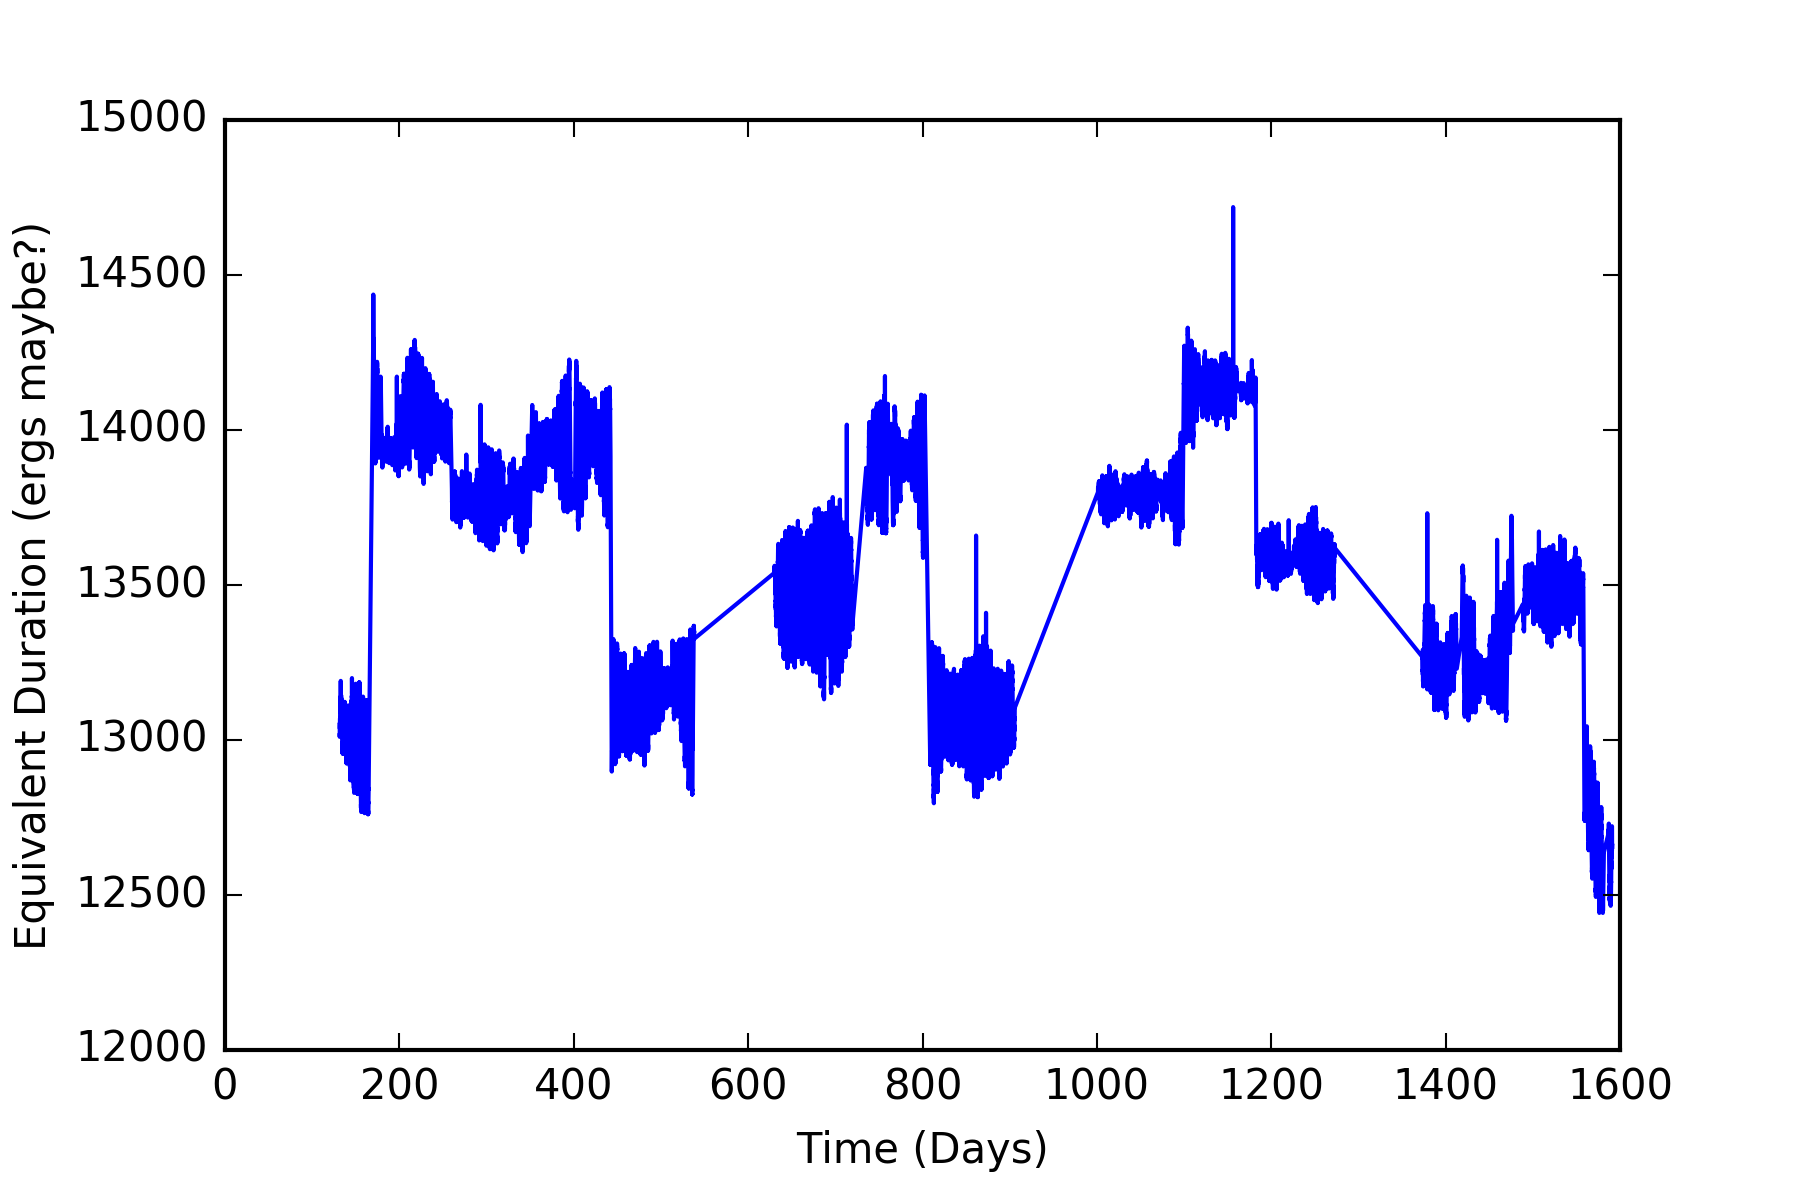
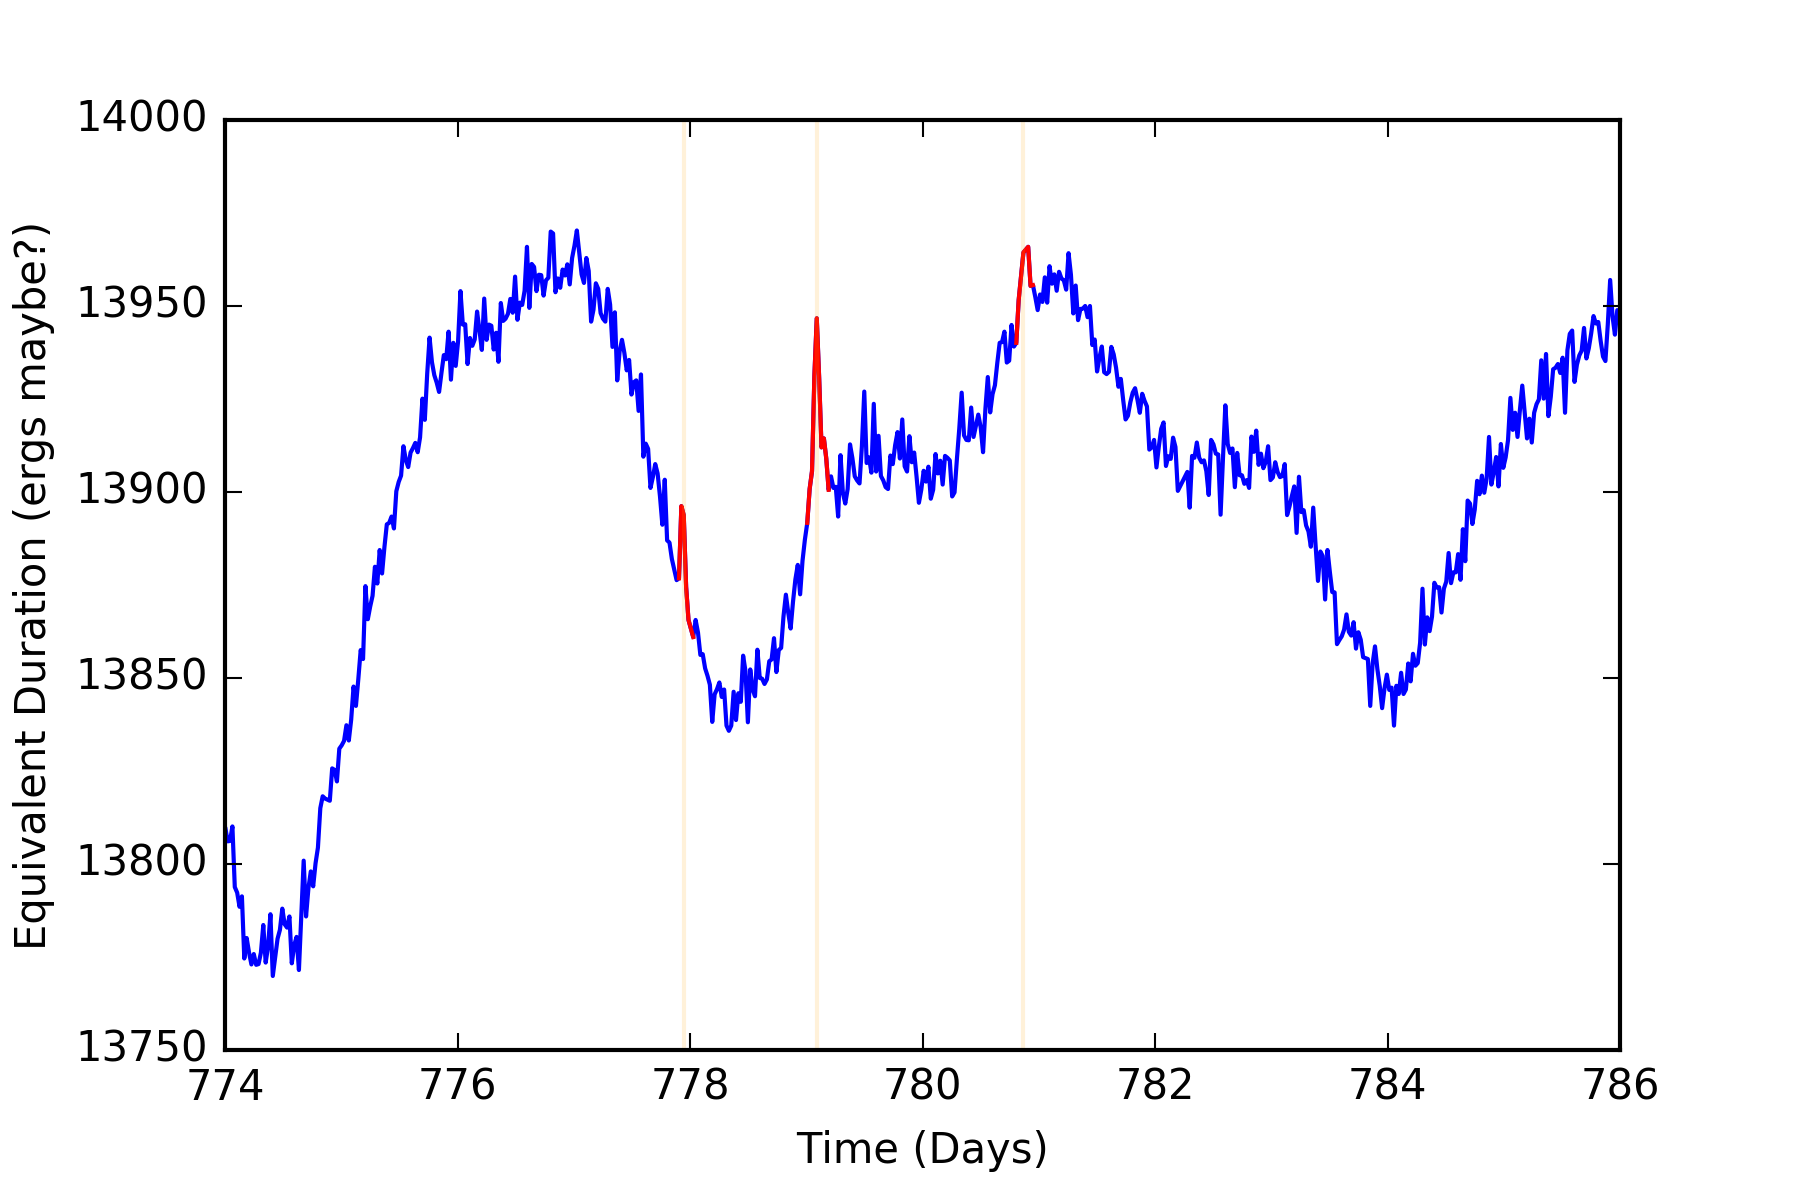
Flares now highlighted!
Fixed a bug where peak time and start time were read in as start time
and stop time respectively. Start time and stop times are now actually
start times and stop times.

Flares are now plotted in red.

Very faint orange lines are aligned with peak times, to further aid in
readability for color impaired viewers.

diff --git a/spot_flicker.py b/spot_flicker.py
@@ -1,6 +1,5 @@
 import numpy as np
 import matplotlib
-from matplotlib.patches import Polygon
 import matplotlib.pyplot as plt
 
 #
@@ -31,23 +30,26 @@ plt.show()
 
 file2 = '4171937.dat.fbeye'
  
-starttime, stoptime = np.loadtxt(file2, usecols=(5,6), unpack=True)
+peaktime, starttime, stoptime = np.loadtxt(file2, usecols=(3,4,5), unpack=True)
 
 plt.figure()
 plt.plot(time, flux, 'b') # plot the original data in blue
 plt.ylabel('Equivalent Duration (ergs maybe?)')
 plt.xlabel('Time (Days)')
-#plt.xlim(774, 786)
-#plt.ylim(13750,14000)
+plt.xlim(774, 786)
+plt.ylim(13750,14000)
 # now lets loop over every flare, find the data that falls within the start/stop times
+
 for k in range(0, len(starttime)):
     # this finds WHERE the logic statements are true for the k'th given flare
     x = np.where((time >= starttime[k]) & (time <= stoptime[k]))
 
     # now let's plot that flare
     plt.plot(time[x], flux[x], c='red')
+   
+   #Here I attempt to use similar syntax as above to try to highlight peak times
+for xc in peaktime:
+    plt.axvline(x=xc, alpha = .15, c='orange')
 
 plt.savefig('CT_W_flares.png', dpi=300 )
 plt.show()
-
-
